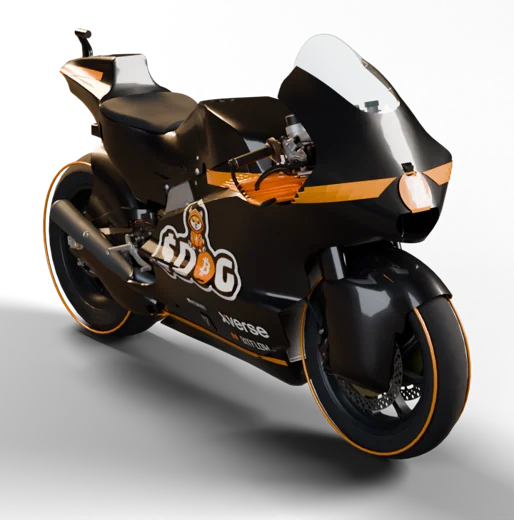
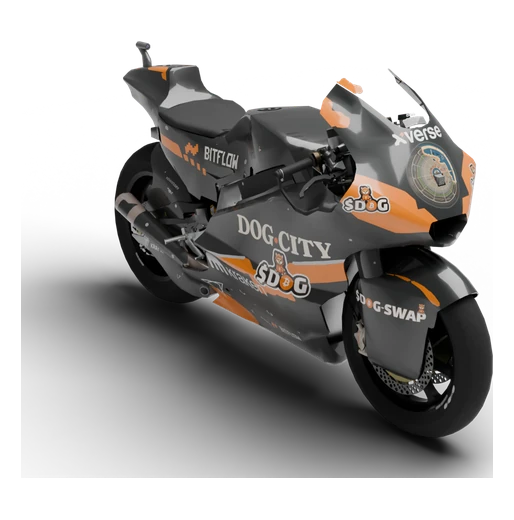
Licence card: the new $DOG moto (MotoGP livery with the DogCity partners)

diff --git a/app/dogcity/dogcity-data.ts b/app/dogcity/dogcity-data.ts
@@ -275,7 +275,7 @@ export const TIERS = [
       "Vehicles: the $DOG moto",
       "Early access to the game, to every test and every update",
     ],
-    vehicle: { src: "/landing/licences/moto.webp", w: 514, h: 520, label: "THE $DOG MOTO", alt: "The black $DOG motorbike with orange rims and the $DOG sticker on the fairing" },
+    vehicle: { src: "/landing/licences/moto.webp", w: 514, h: 520, label: "THE $DOG MOTO", alt: "The $DOG racing motorbike in black and orange MotoGP livery, with DOG·CITY, $DOG and partner logos on the fairing" },
     cta: "Choose Personal",
   },
   {
